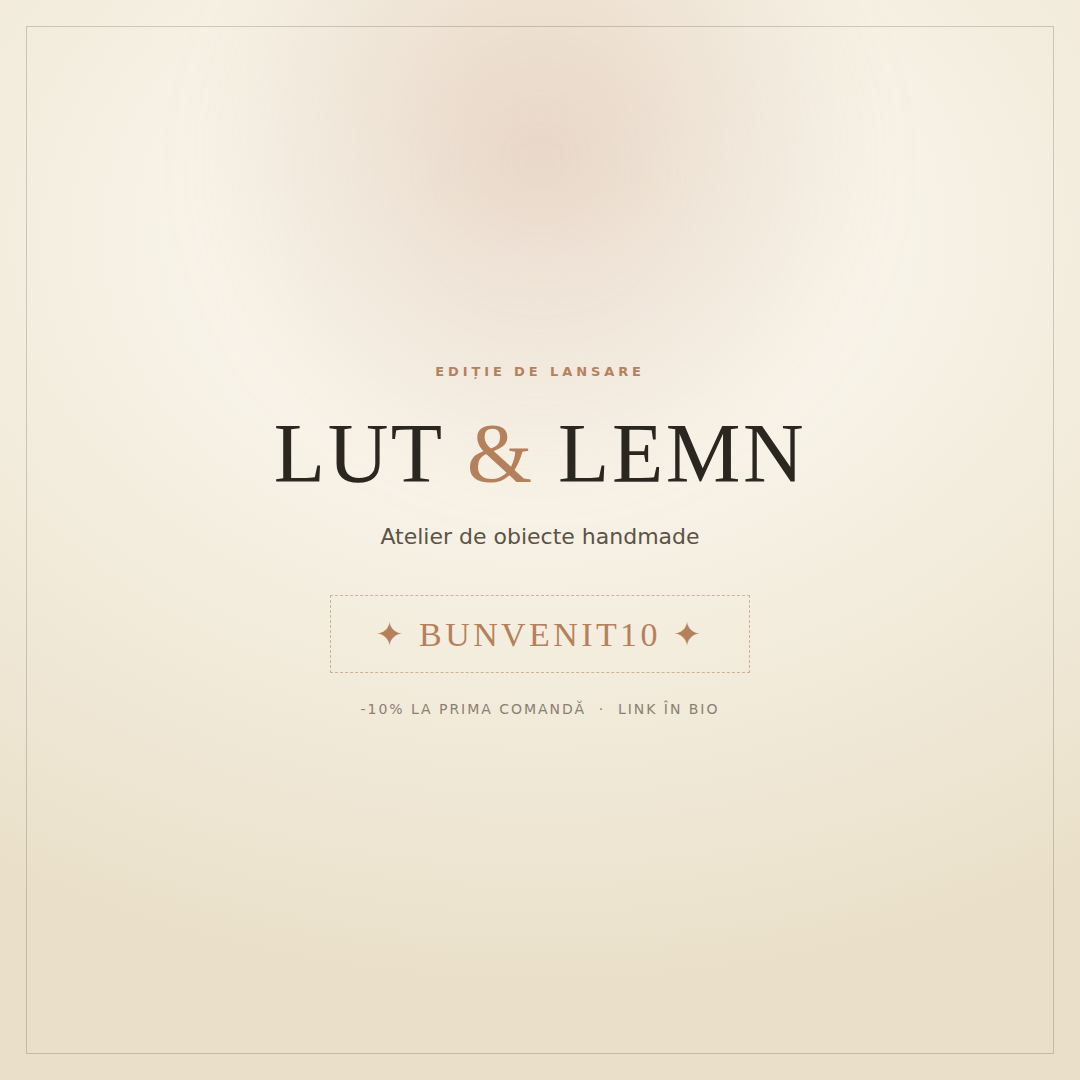
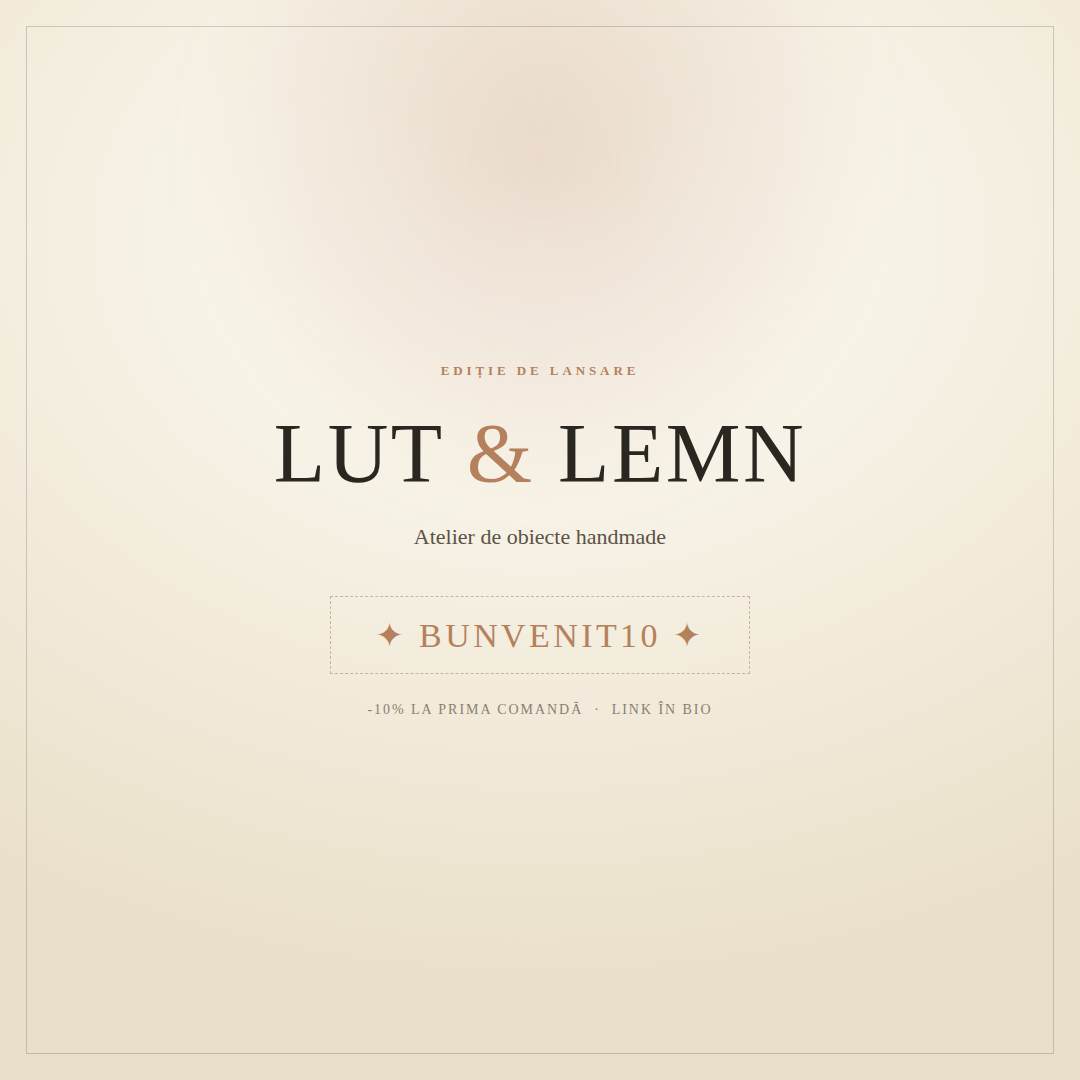
Regenerează grafica social cu produse reale din colecție
Reface pachetul din assets/social/ ca să prezinte produse din catalog cu
ilustrațiile lor reale, nu iconițe generice:
- ig-2-produs: acum highlight de produs real (Vază Argilă) cu ilustrația
  încorporată, preț și preț tăiat, în loc de un produs inventat
- ig-4-colectie (nou): grilă 2×2 cu patru produse (Vază Argilă, Lampă Lună,
  Oglindă Arcadă, Pernă Catifea) și prețuri
- ig-1-lansare și ig-3-brand: regenerate identic, pentru consistență

Actualizează și PROMOVARE.md cu noile descrieri și a patra imagine.

diff --git a/PROMOVARE.md b/PROMOVARE.md
@@ -7,8 +7,9 @@ Materiale gata de folosit pentru promovarea site-ului pe rețele sociale. Site l
 În `assets/social/` — imagini pătrate 1080×1080, gata de încărcat direct pe Instagram/Facebook:
 
 - `ig-1-lansare.png` — anunț de lansare + codul BUNVENIT10
-- `ig-2-produs.png` — highlight produs trending (Vază Ceramică Organică Mată)
+- `ig-2-produs.png` — highlight de produs din colecție (Vază Argilă, cu ilustrația reală)
 - `ig-3-brand.png` — citat de brand („Nu vindem decor. Compunem atmosferă.”)
+- `ig-4-colectie.png` — grilă cu patru produse din colecție (Vază Argilă, Lampă Lună, Oglindă Arcadă, Pernă Catifea), cu prețuri
 
 Pentru produse noi apărute prin radar (`products.json`), poți genera variante similare cerându-mi oricând o nouă imagine pentru un produs anume.
 